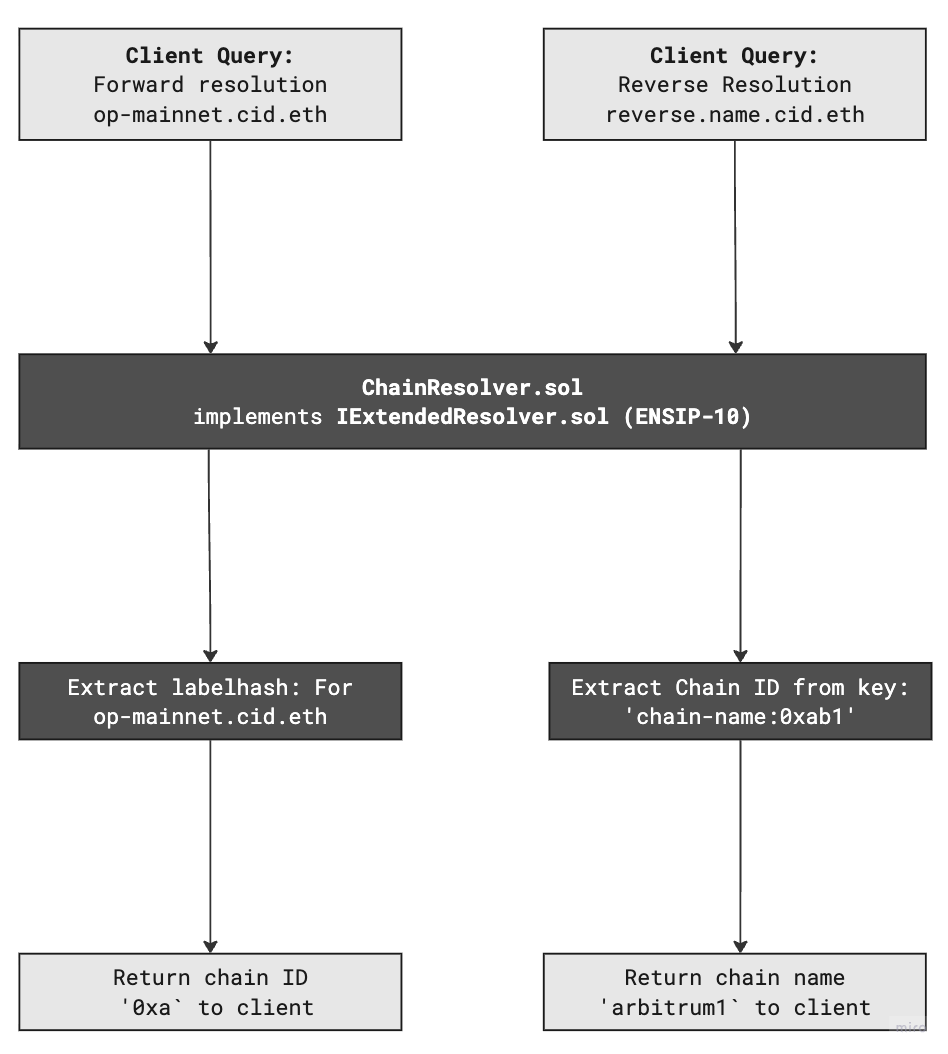
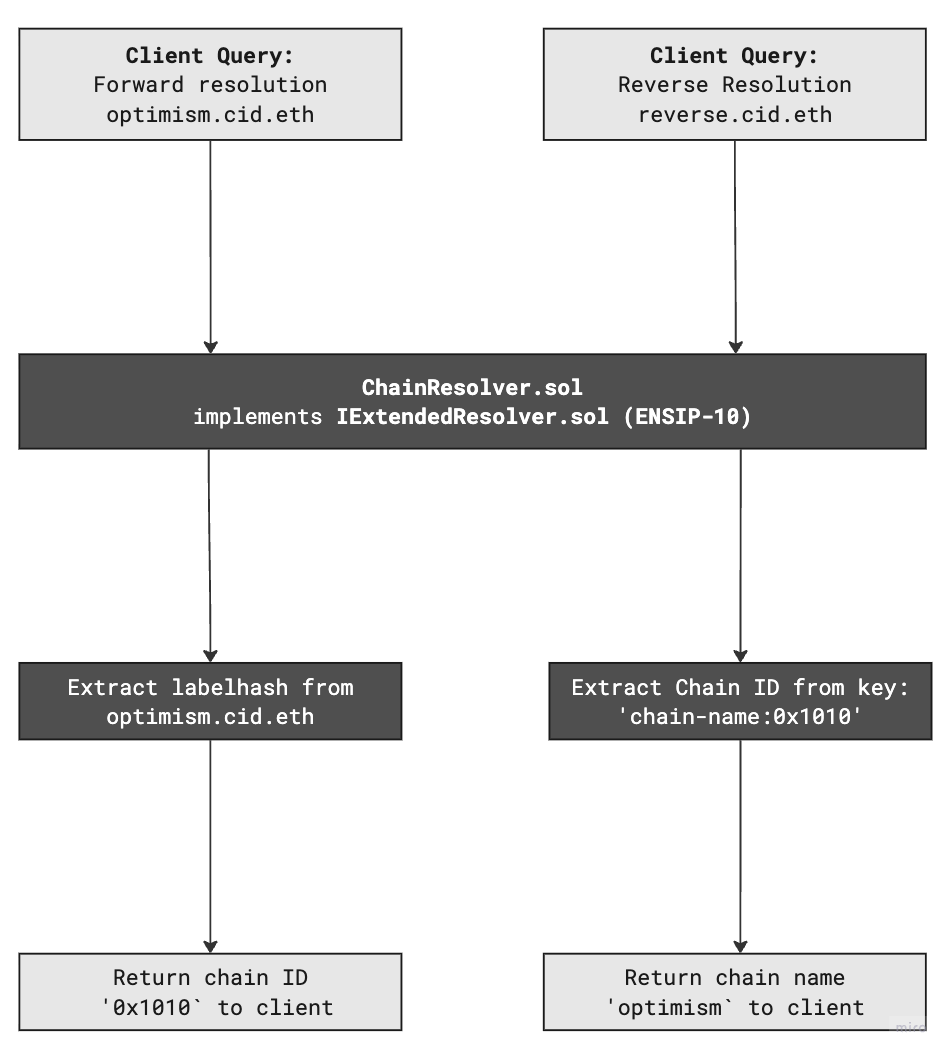
update flow diagram

diff --git a/app/learn/page.tsx b/app/learn/page.tsx
@@ -119,13 +119,19 @@ export default function LearnPage() {
                     (e.g., <code className="font-mono">label = "optimism"</code>).
                   </li>
                   <li>
-                    Call{" "}
-                    <code className="font-mono">
-                      resolve(name, abi.encodeWithSelector(text(labelhash,"chain-id")))
-                    </code>
-                    {" "}
-                    → returns a hex string without{" "}
-                    <code className="font-mono">0x</code> (prepend it client-side).
+                    Calls{" "}
+                    <ul>
+                      <li>
+                        <code className="font-mono">
+                          resolve(name, encode(text(labelhash,"chain-id")))
+                        </code>
+                      </li>
+                      <li>
+                        <code className="font-mono">
+                          resolve(name, encode(data(labelhash,"chain-id")))
+                        </code>
+                      </li>
+                    </ul>
                   </li>
                 </ul>
               </section>
@@ -134,8 +140,7 @@ export default function LearnPage() {
               <section className="space-y-2">
                 <div className="font-semibold text-foreground">Reverse Resolution</div>
                 <p className="text-muted-foreground">
-                  Pass a key prefixed with <code className="font-mono">"chain-name:"</code> and suffixed with the
-                  7930 hex via either{" "}
+                  Pass a key prefixed with <code className="font-mono">"chain-name:"</code> and suffixed with the raw 7930 bytes (latin‑1 string carrying raw bytes) via either{" "}
                   <code className="font-mono">text(bytes32,string)</code> or{" "}
                   <code className="font-mono">data(bytes32,string)</code>; the resolver returns the chain name. This
                   uses service key parameters per{" "}
@@ -147,7 +152,7 @@ export default function LearnPage() {
                 <ul className="list-disc pl-5 space-y-0.5">
                   <li>
                     serviceKey (string):{" "}
-                    <code className="font-mono">"chain-name:&lt;7930-hex&gt;"</code>
+                    <code className="font-mono">"chain-name:" + &lt;raw 7930 bytes&gt;</code>
                   </li>
                   <li>
                     Calls:
@@ -161,7 +166,7 @@ export default function LearnPage() {
                       <div>
                         •{" "}
                         <code className="font-mono">
-                          resolve(name, encode(data(labelhash, dataKey)))
+                          resolve(name, encode(data(labelhash, serviceKey)))
                         </code>
                       </div>
                     </div>

diff --git a/src/components/ReverseResolverForm.tsx b/src/components/ReverseResolverForm.tsx
@@ -9,7 +9,7 @@ import { Label } from '@/components/ui/label';
 import { useToast } from '@/hooks/use-toast';
 import { usePublicClient } from 'wagmi';
 import type { Abi } from 'viem';
-import { Interface, AbiCoder, getBytes, hexlify, concat, dnsEncode, toUtf8Bytes } from 'ethers';
+import { Interface, AbiCoder, getBytes, dnsEncode } from 'ethers';
 import { CHAIN_RESOLVER_ADDRESS } from '@/lib/addresses';
 import { CHAIN_RESOLVER_ABI } from '@/lib/abis';
 
@@ -58,19 +58,31 @@ const ReverseResolverForm: React.FC = () => {
       setHasResolved(false);
       setIsResolving(true);
 
-      // ENSIP‑10: Reverse via data(node, key = abi.encode('chain-name:') || chainIdBytes)
-      const dataIface = new Interface(['function data(bytes32,bytes) view returns (bytes)']);
-      // Key must be raw bytes: UTF-8("chain-name:") || chainIdBytes
-      const keyBytes = hexlify(concat([toUtf8Bytes('chain-name:'), getBytes(id)]));
-      const call = dataIface.encodeFunctionData('data', ['0x' + '00'.repeat(32), keyBytes]);
+      // ENSIP‑10: Reverse via data(node, keyString) with keyString = "chain-name:" + raw 7930 bytes
+      // Build a latin-1 string carrying raw bytes for the key
+      const hexFromLatin1 = (s: string) => '0x' + Array.from(s, (c) => c.charCodeAt(0).toString(16).padStart(2, '0')).join('');
+      const keyString = (() => {
+        const prefix = 'chain-name:';
+        const bytes = getBytes(id);
+        let raw = '';
+        for (let i = 0; i < bytes.length; i++) raw += String.fromCharCode(bytes[i]);
+        return prefix + raw;
+      })();
+
+      const dataIface = new Interface(['function data(bytes32,string) view returns (bytes)']);
+      const zeroNode = ('0x' + '00'.repeat(32)) as `0x${string}`;
+      const call = dataIface.encodeFunctionData('data(bytes32,string)', [zeroNode, keyString]);
       const dnsName = dnsEncode('x.cid.eth', 255) as `0x${string}`;
+
       const answer = await (publicClient as any)!.readContract({
         address: reverseAddr as `0x${string}`,
         abi: CHAIN_RESOLVER_ABI as unknown as Abi,
         functionName: 'resolve',
         args: [dnsName, call as `0x${string}`]
       }) as `0x${string}`;
-      const [encoded] = (new Interface(['function data(bytes32,bytes) view returns (bytes)']).decodeFunctionResult('data', answer) as unknown as [`0x${string}`]);
+      console.log('[reverse] resolve answer', answer);
+      const [encoded] = (new Interface(['function data(bytes32,string) view returns (bytes)']).decodeFunctionResult('data(bytes32,string)', answer) as unknown as [`0x${string}`]);
+      console.log('[reverse] decoded bytes result', encoded);
 
       let out = '';
       try {
